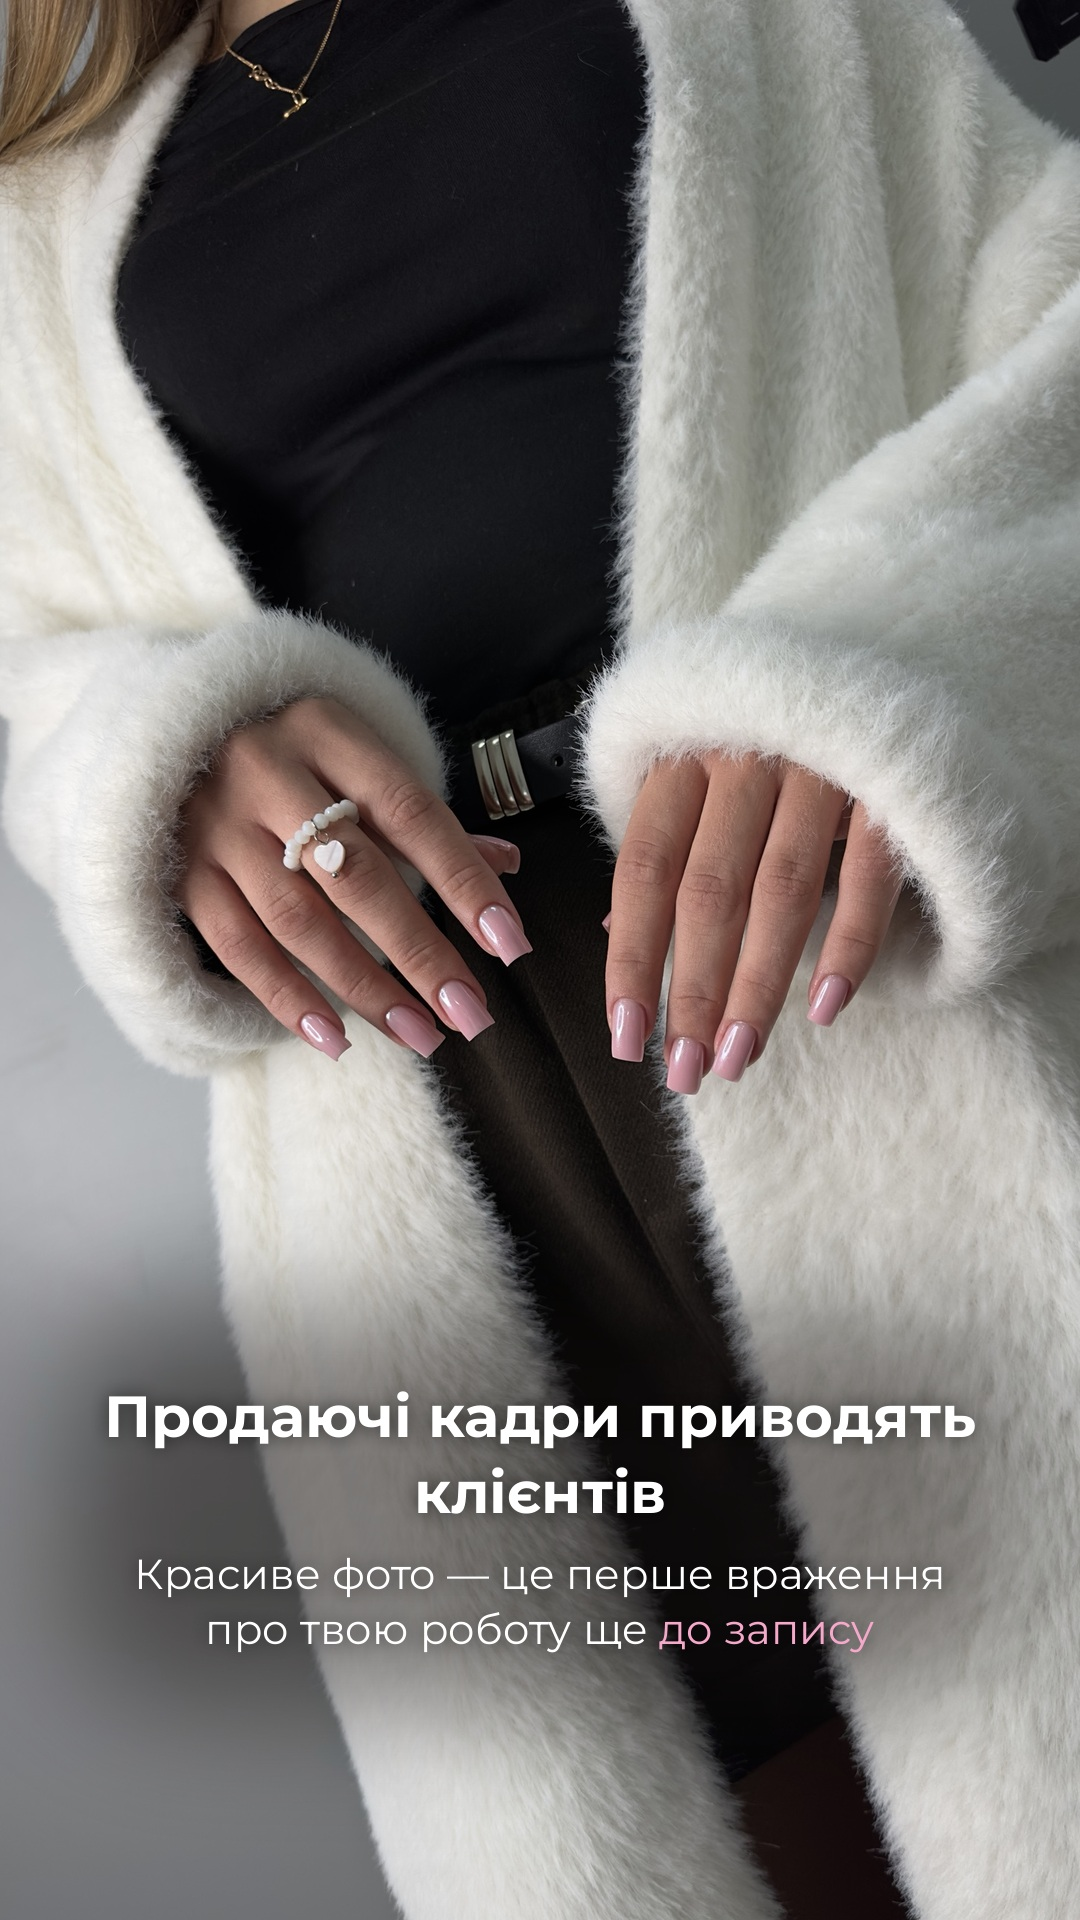
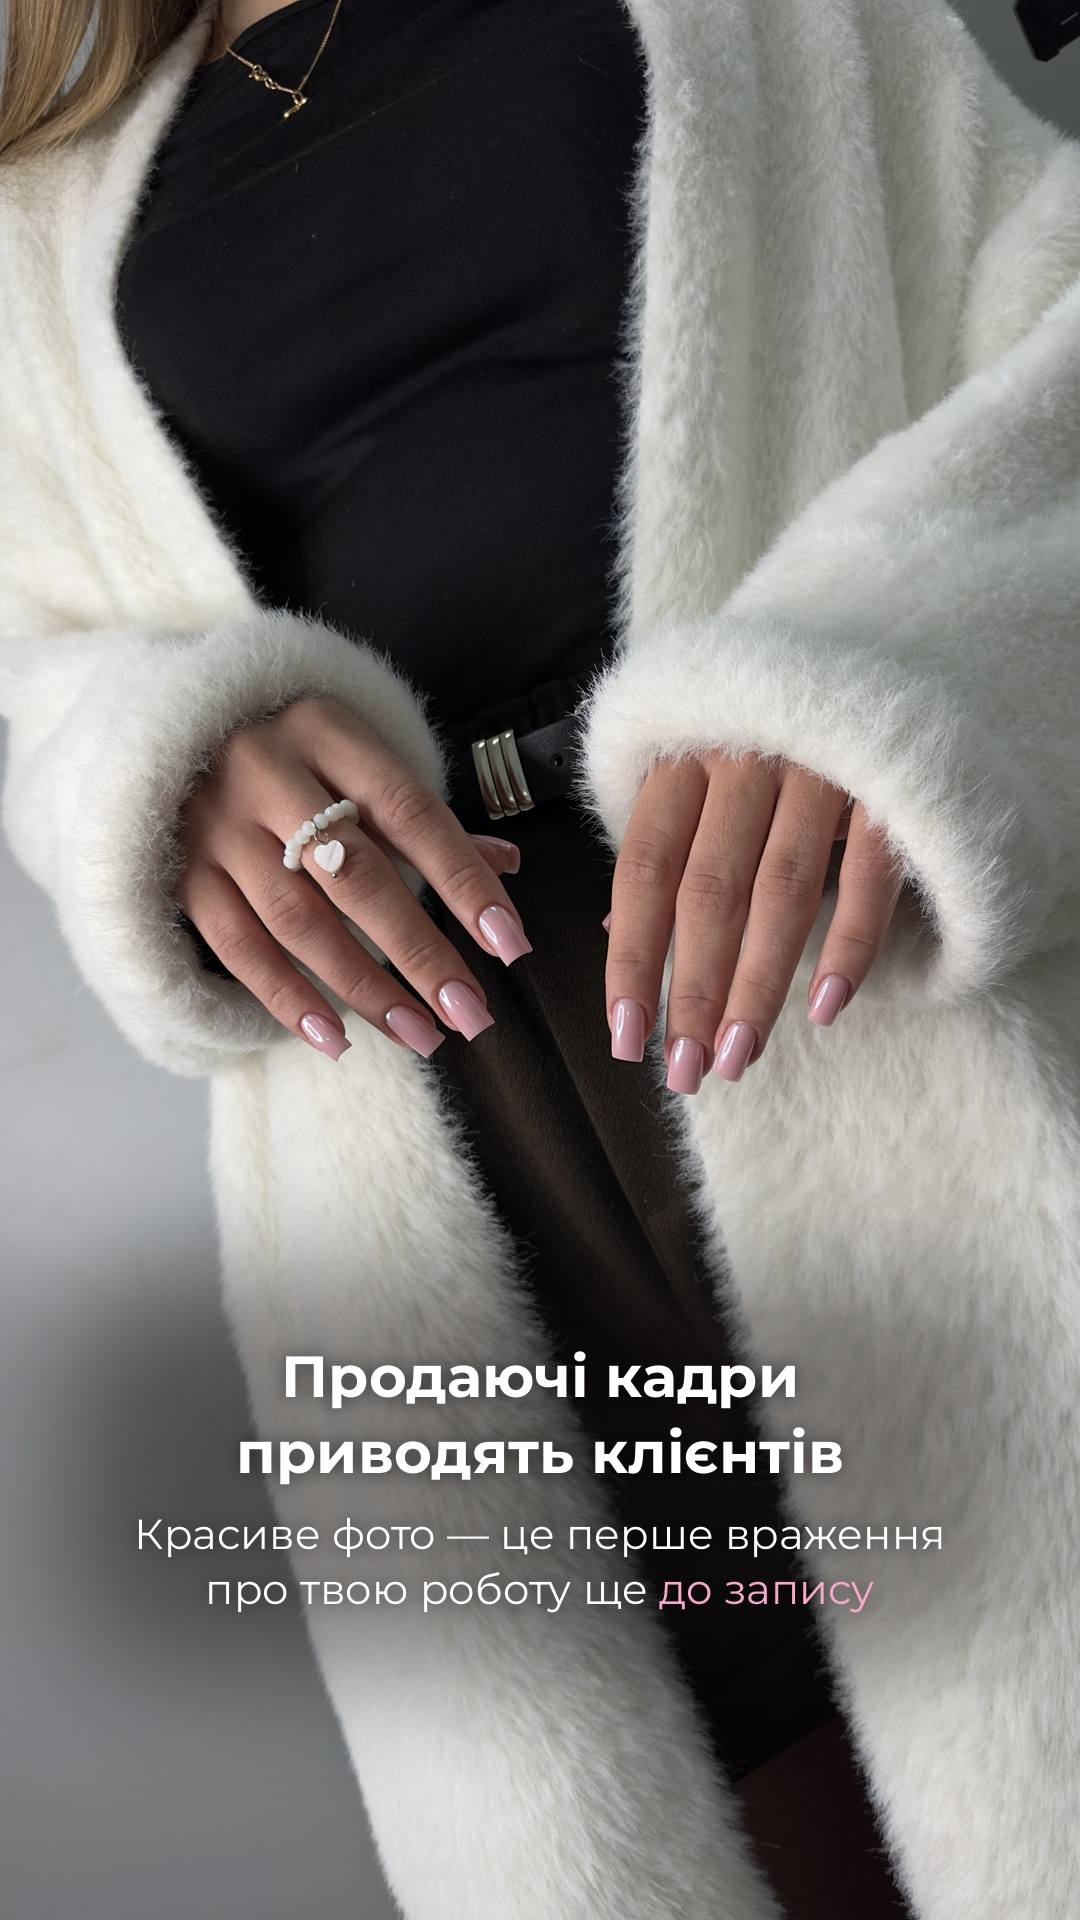
Цінність зйомки: 3 сторі заголовок у 2 рядки, стікер 4 — текст у 2 рядки
Claude-Session: https://claude.ai/code/session_0191xVL2hi5vHUvM1ix6pauC

Changed region(s): [[0.0917, 0.6562, 0.9167, 0.9062]]

diff --git a/stories/tsinnist_zyomky/build.py b/stories/tsinnist_zyomky/build.py
@@ -26,7 +26,7 @@ q=F(42,400); line(975,'Як думаєш, за яким фото',q,DK); line(10
 e=emoji('🤔',46); c.paste(e,(int(W/2+d.textlength('клієнтка швидше запишеться?',font=q)/2+12),1036),e)
 c.paste(cc(f'{U}/5f9c00cb-image.jpg',gw,gh,0.3),(x0,1110)); c.paste(cc(f'{U}/f1d0cfee-image.jpg',gw,gh,0.55),(x0+gw+gap,1110))
 im=c; save(im,2)
-im,_=ctext(fit(f'{U}/27af2422-image.jpg'),1380,'Продаючі кадри приводять клієнтів','Красиве фото — це перше враження про твою роботу ще *до запису*',None,shade=130); save(im,3)
+im,_=ctext(fit(f'{U}/27af2422-image.jpg'),1340,'Продаючі кадри приводять клієнтів','Красиве фото — це перше враження про твою роботу ще *до запису*',None,shade=130,bmw=650); save(im,3)
 im,_=ctext(fit(f'{U}/10b2af08-image.jpg'),1420,'А відео передає *професіоналізм*','У ньому видно твою техніку, акуратність і процес — і довіри одразу більше',None,shade=120); save(im,4)
 im,_=ctext(fit(f'{U}/2c7aaee4-image.jpg'),200,'Мені зйомка й соцмережі допомогли','набрати клієнтську базу буквально *за 2 місяці* після декрету','🤍',shade=140); save(im,5)
 im,_=ctext(fit(f'{U}/10fe640c-image.jpg'),160,'Зйомка — це інвестиція,','яка окупається для *кожного майстра*. Пиши «LAB», якщо хочеш навчитися','✨',shade=150,mw=960); save(im,6)
